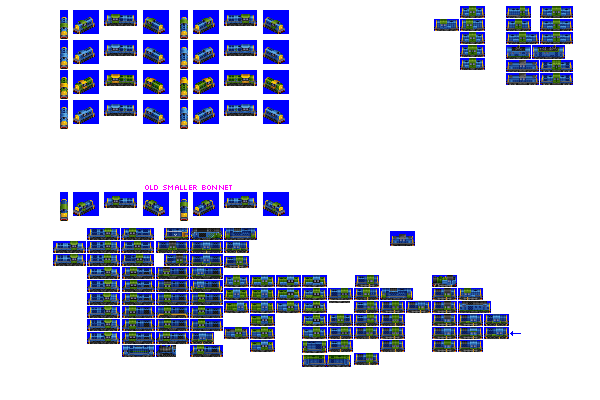
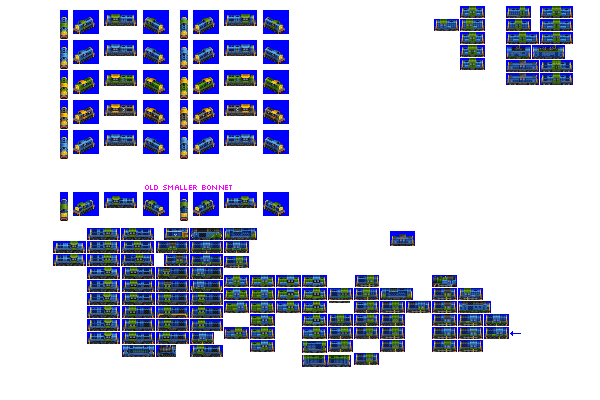
Change: improve Viking appearance, including Hornet livery

diff --git a/bin/company_colour_remaps.py b/bin/company_colour_remaps.py
@@ -9,7 +9,7 @@ from polar_fox import graphics_units
 # requires a tmp dir to exist, which should be gitignored
 # set the filename
 input_filenames = [
-    "smizzle",
+    "viking",
 ]
 
 CC1 = 198

diff --git a/src/vehicles/pony/viking.py b/src/vehicles/pony/viking.py
@@ -21,6 +21,7 @@ def main(**kwargs):
             "CONVENTIONAL_WISDOM",
             "STOCK_STANDARD",
             "SHOW_PONY",
+            "HORNET",
             "INDUSTRIAL_YELLOW",
         ],
         sprites_complete=True,